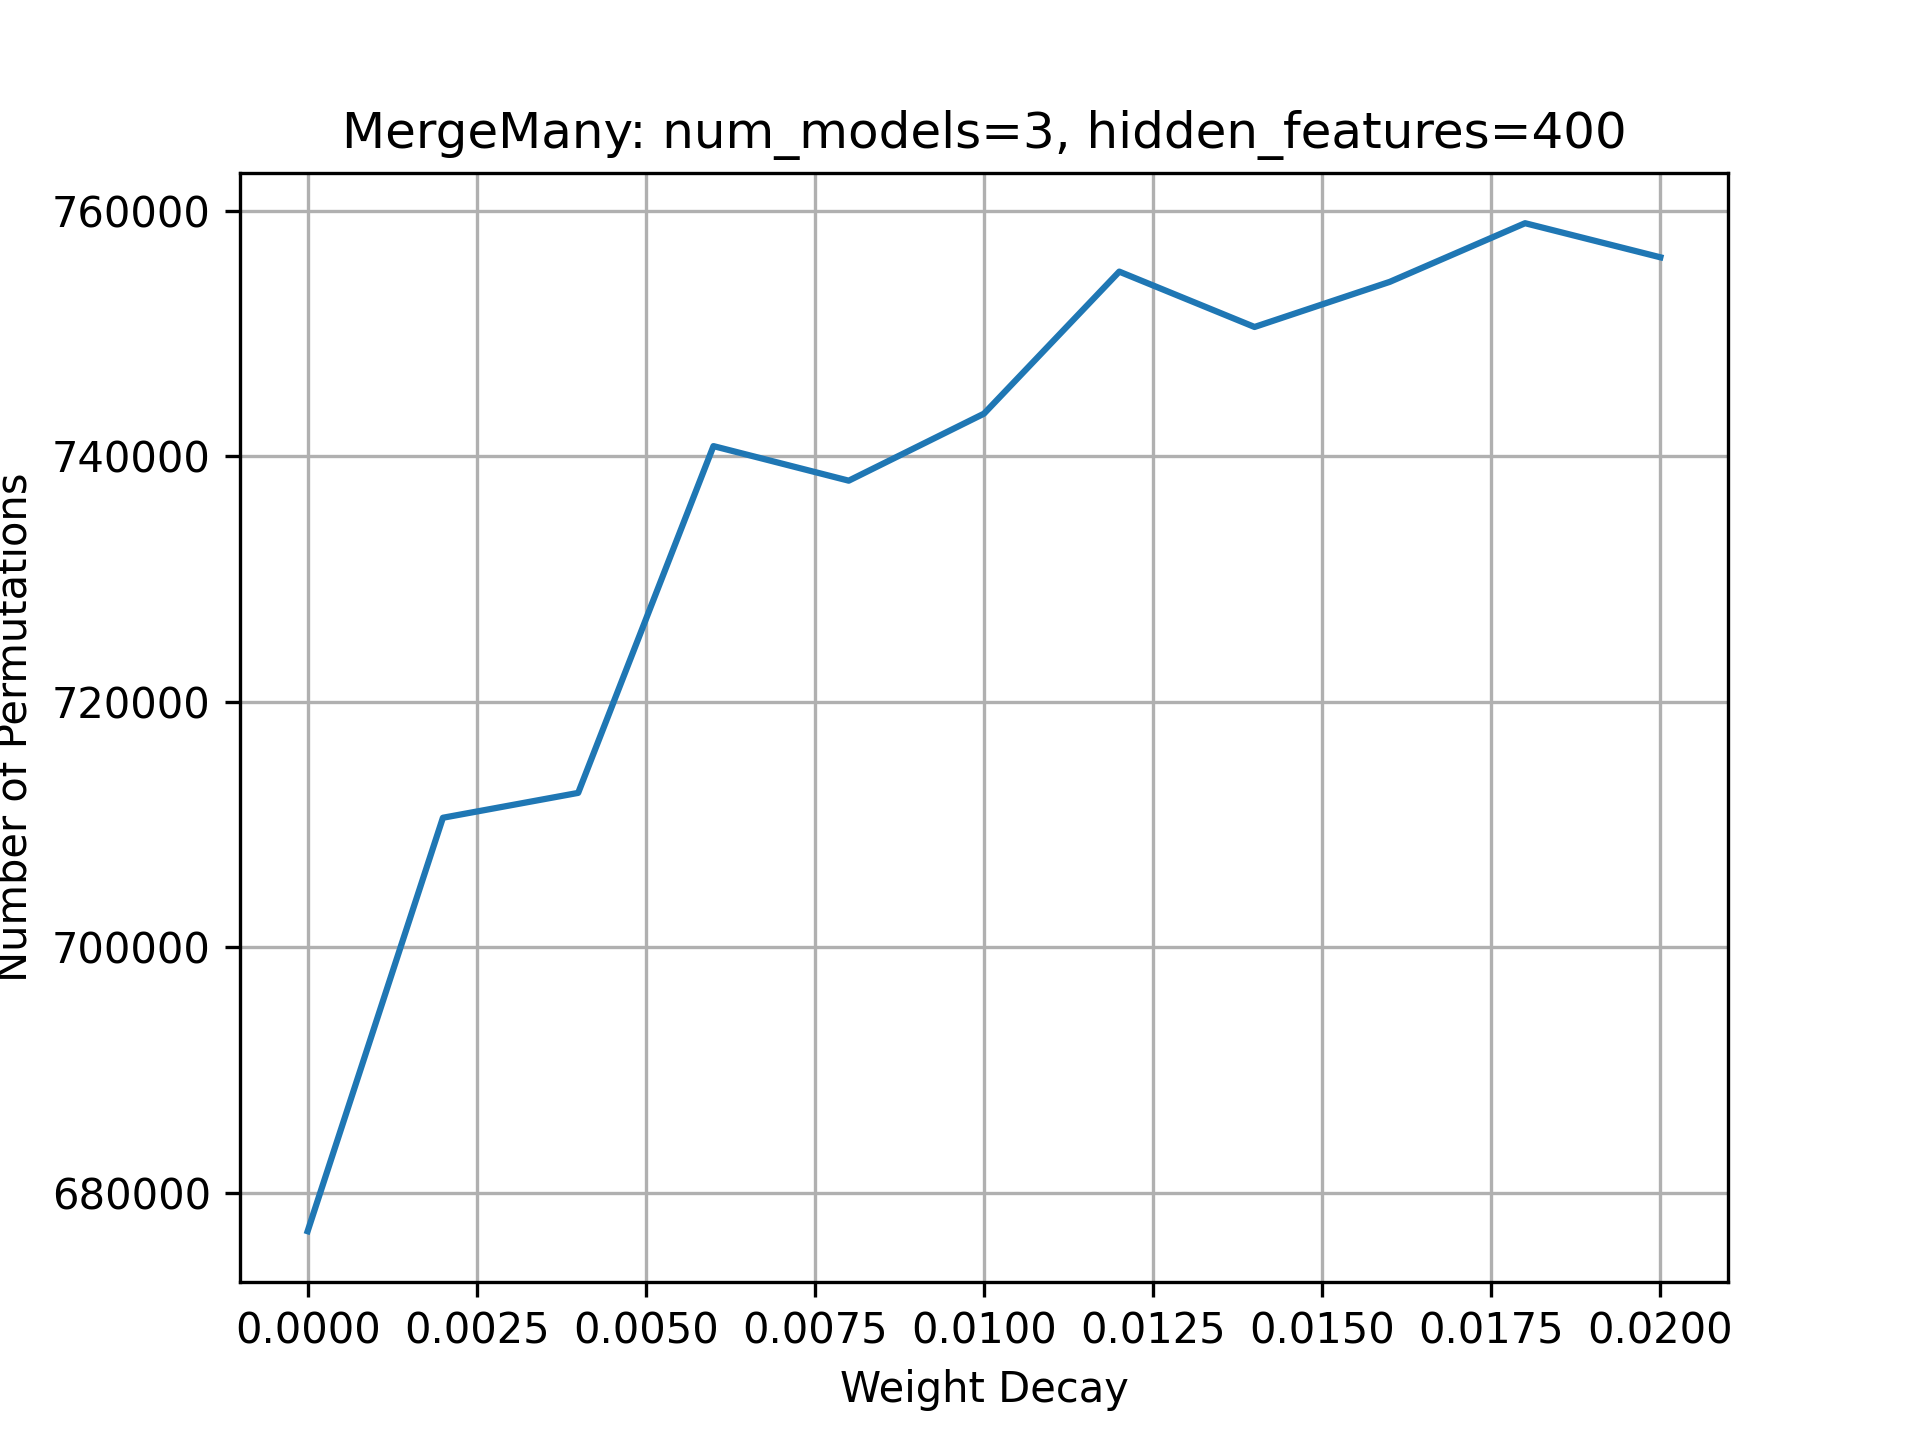
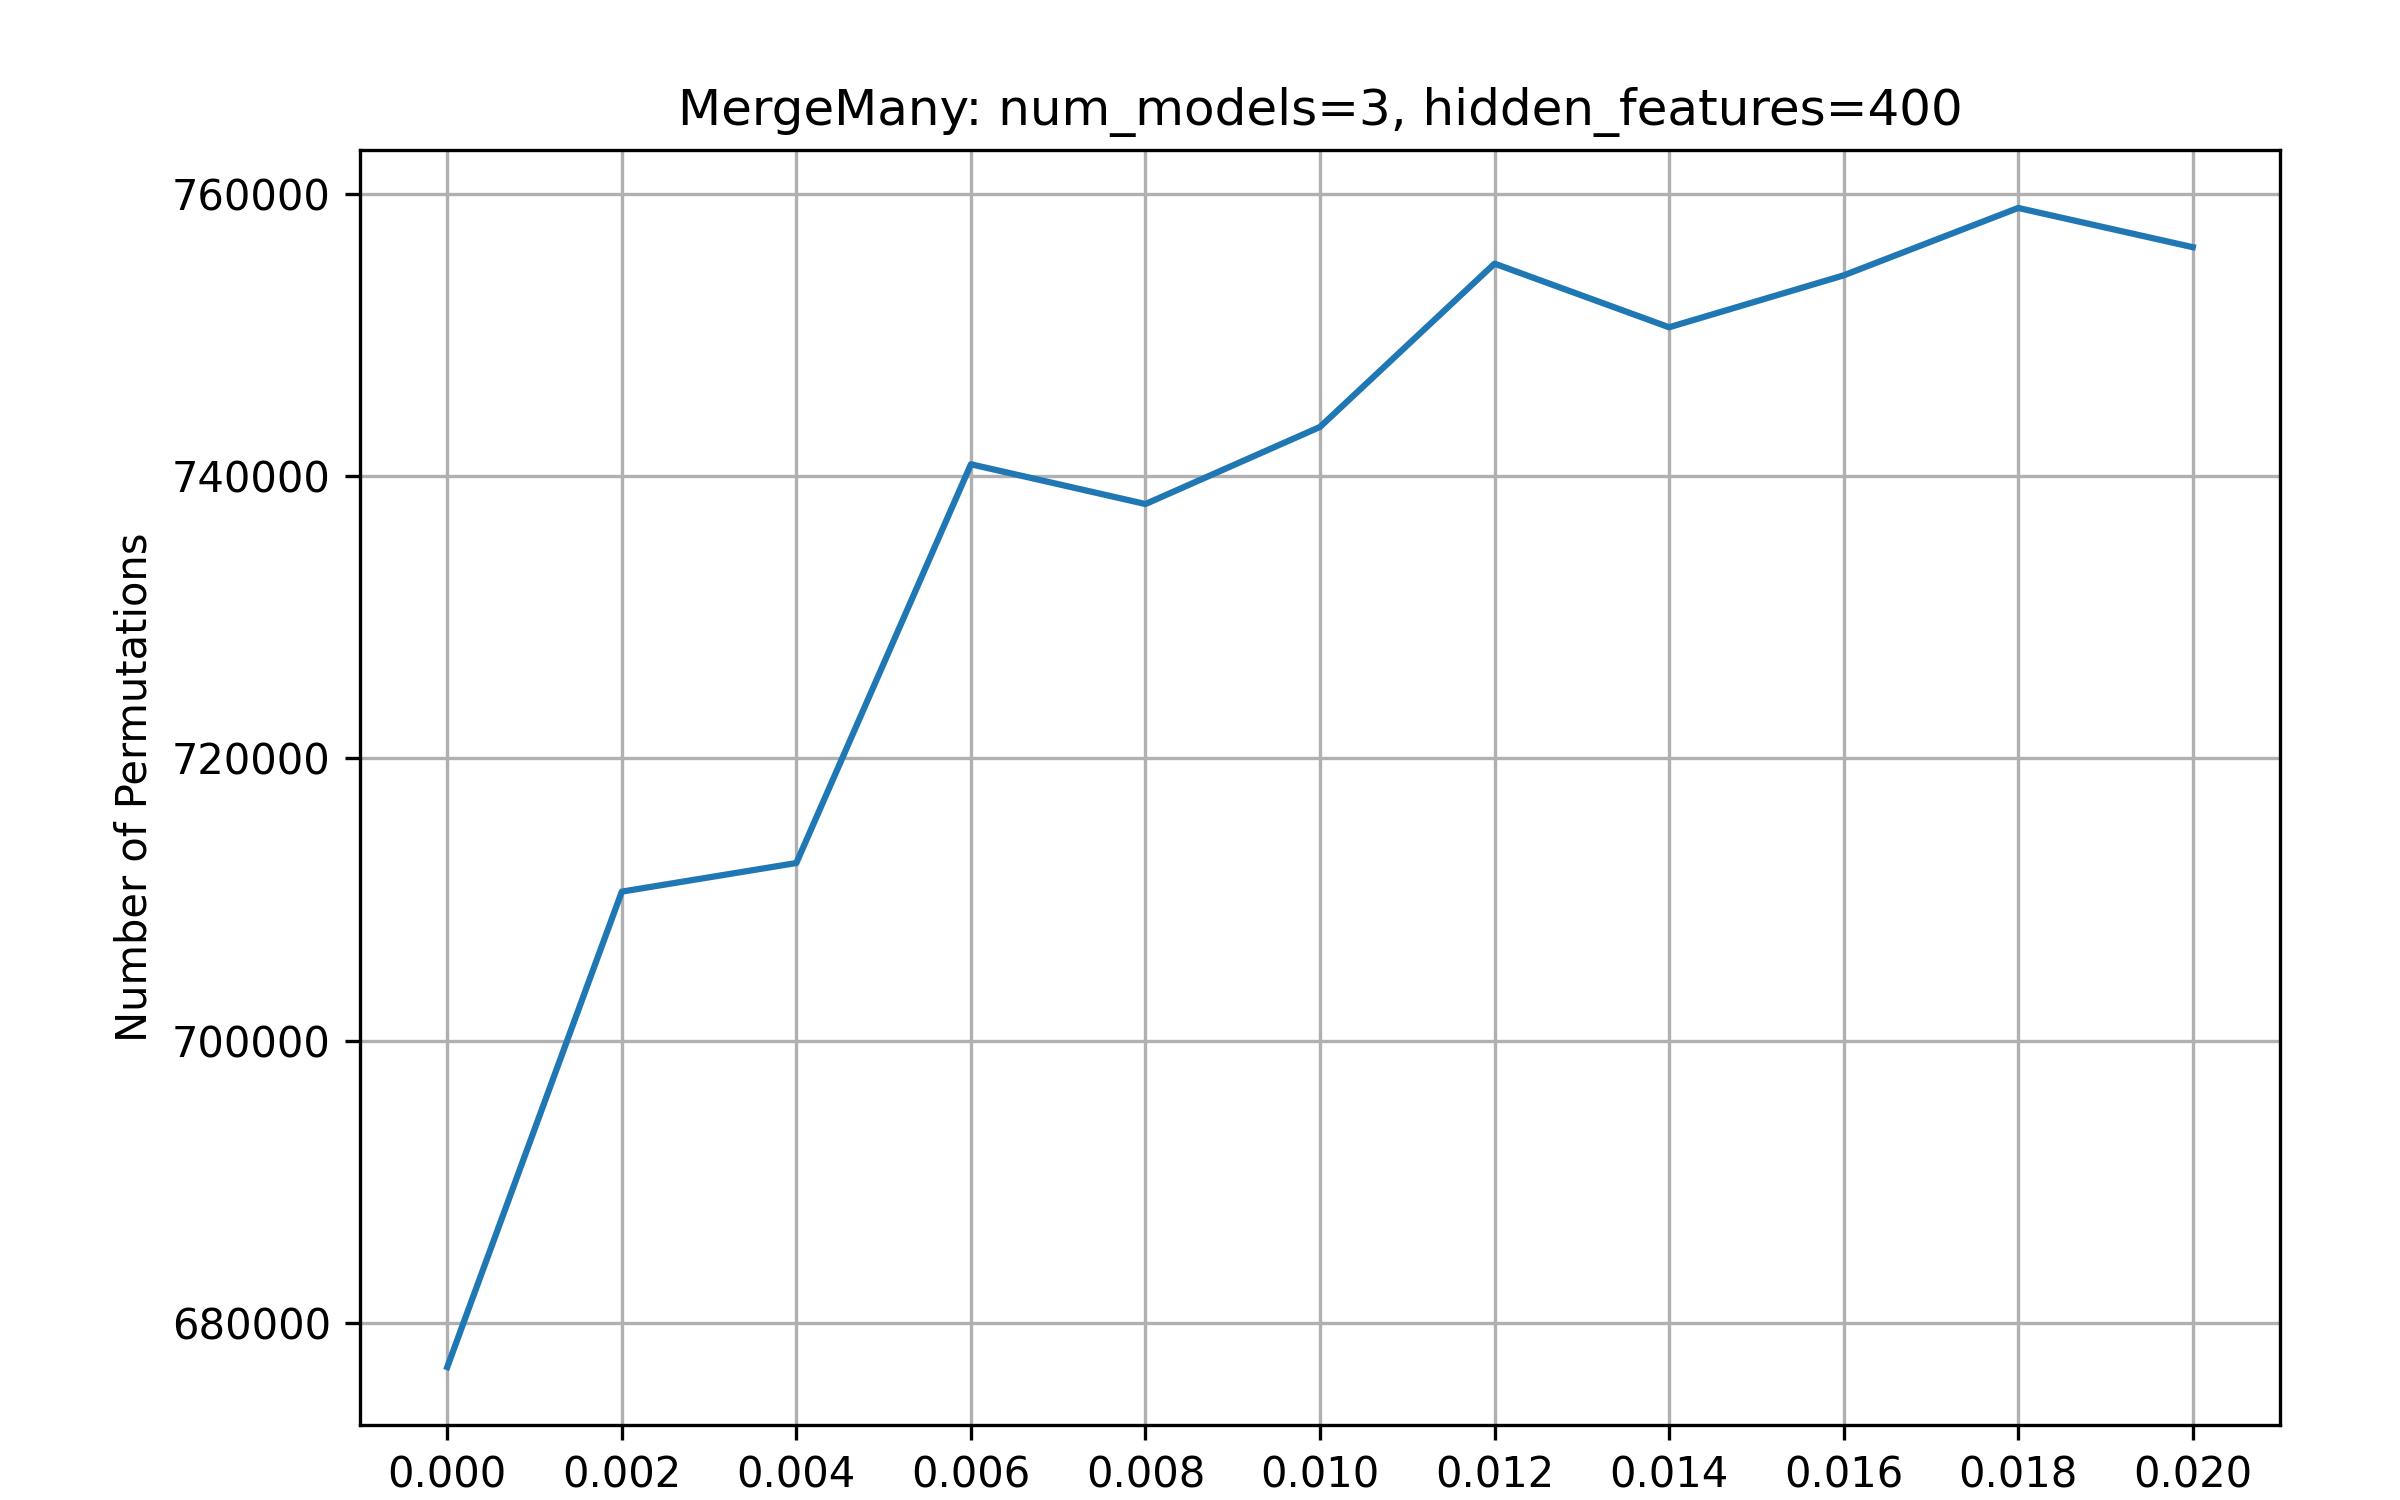
Add Permutation count to mlp/RESULTS.md

diff --git a/mlp/plot_results.py b/mlp/plot_results.py
@@ -300,17 +300,57 @@ def plot_compare_output_statistics() -> None:
 
 
 def plot_count_permutations() -> None:
-    results = pd.read_csv("results/merge-many/count_permutations_wd0.0-0.02_hf400.csv")
-    plt.title("MergeMany: num_models=3, hidden_features=400")
-    plt.plot(
-        results["weight_decay"],
-        results["num_permutations"],
+    results_02 = pd.read_csv("results/merge-many/count_permutations_wd0.0-0.2_hf400.csv")
+    results_002 = pd.read_csv("results/merge-many/count_permutations_wd0.0-0.02_hf400.csv")
+
+    fig, axs = plt.subplots(2, 2, figsize=(12, 6))
+    fig.subplots_adjust(top=0.91, bottom=0.08, hspace=0.15, wspace=0.05, left=0.1, right=0.95)
+    fig.suptitle("MergeMany: num_models=3, hidden_features=400")
+
+    axs[0, 0].plot(
+        results_002["weight_decay"],
+        results_002["num_permutations"] / 1_000,
     )
-    plt.grid()
-    plt.ylabel("Number of Permutations")
-    plt.xlabel("Weight Decay")
+    axs[0, 0].set_ylabel("# Permutations (in 1000)")
+    axs[0, 0].set_ylim([680, 800])
+    axs[0, 0].set_xticklabels([])
+    axs[0, 0].set_xticks(np.arange(0.0, 0.021, 0.002))
+    axs[0, 0].set_title("Weight Decay in [0.0, 0.02]")
+    axs[0, 0].grid()
+
+    axs[0, 1].plot(
+        results_02["weight_decay"],
+        results_02["num_permutations"] / 1_000,
+    )
+    axs[0, 1].set_ylim([680, 800])
+    axs[0, 1].set_yticklabels([])
+    axs[0, 1].set_xticklabels([])
+    axs[0, 1].set_xticks(np.arange(0.0, 0.21, 0.02))
+    axs[0, 1].set_title("Weight Decay in [0.0, 0.2]")
+    axs[0, 1].grid()
+
+    axs[1, 0].plot(
+        results_002["weight_decay"],
+        results_002["num_permutations"] / 1_000,
+    )
+    axs[1, 0].set_ylabel("# Permutations (in 1000)")
+    axs[1, 0].set_ylim([0, 800])
+    axs[1, 0].set_xticks(np.arange(0.0, 0.021, 0.002))
+    axs[1, 0].set_xlabel("Weight Decay")
+    axs[1, 0].grid()
+
+    axs[1, 1].plot(
+        results_02["weight_decay"],
+        results_02["num_permutations"] / 1_000,
+    )
+    axs[1, 1].set_ylim([0, 800])
+    axs[1, 1].set_yticklabels([])
+    axs[1, 1].set_xticks(np.arange(0.0, 0.21, 0.02))
+    axs[1, 1].set_xlabel("Weight Decay")
+    axs[1, 1].grid()
+
     # plt.show()
-    plt.savefig("results/merge-many/count_permutations_wd0.0-0.02_hf400.png", dpi=300)
+    plt.savefig("results/merge-many/count_permutations.png", dpi=300)
 
 
 def normalize(data: pd.DataFrame, key_loss: str, key_acc: str) -> pd.DataFrame:

diff --git a/mlp/RESULTS.md b/mlp/RESULTS.md
@@ -150,10 +150,30 @@ of the outputs.
 
 It's clear that the maximum output and the standard deviation of the outputs
 are lower in the merged model than in the models that make it up, while loss and
-accuracy are higher (except when `weight_decay == 0.0`; the behavior in this case
+accuracy are higher. 
+
+An exception to this is the case where `weight_decay == 0.0`; the behavior in this case
 is probably explained by `PermutationCoordinateDescent` &mdash; which is used
-by `MergeMany` &mdash; achieving a worse fit between the models. The permuted models are 
-).
+by `MergeMany` &mdash; achieving a worse fit between the models. The permuted models are
+averaged, so if they fit poorly, they will converge towards random noise. 
+
+This view is supported by the number of permutations that are applied to the models
+before they are merged, at different `weigth_decay` values:
+
+<p align="center">
+    <img
+        src="results/merge-many/count_permutations.png"
+        alt="MergeMany: # Permutations for MLP over weight_decay"
+        width="800"
+    />
+</p>
+
+The number of permutations rises quickly at low `weight_decay`-values,
+but then almost levels off. Clearly, an L2-regulizer helps `PermutationCoordinateDescent`
+and, with that, `MergeMany`. It should be noted, however, that the difference in 
+permutation counts isn't very large in relative terms. The lower two plots
+show the same data, but with the y-axis scaled to start from 0, and it 
+clearly shows this.
 
 ## The model
 
